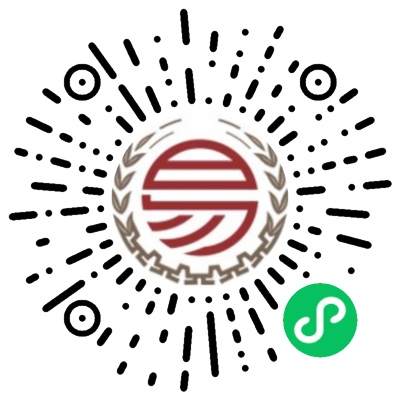
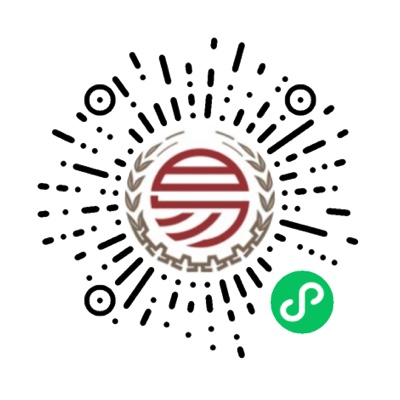
2

diff --git a/StoreIn.html b/StoreIn.html
@@ -73,15 +73,15 @@
 
     <div class="store-in-main">
         <div class="in-content">
-            <img src="./src/store-in.png">
+            <img src="./src/vendor-in.png">
             <div class="in-tel">
-                <div class="tel-content">
-                    <div>
-                        <img src="./src/store-tel.png" class="tel">
+                <div class="tel-content-vendor">
+                    <div class="ewmimgdiv">
+                        <img style="width: 190px;height: 190px;" src="./src/vendorewm.png">
                     </div>
-                    <div class="txt">
-                        <p>门店入驻电话</p>
-                        <p>400-163-1979</p>
+                    <div class="txt-vendor">
+                        <p class="txtver1">易品优选合伙人招募</p>
+                        <p class="txtver2">微信扫描小程序码</p>
                     </div>
                 </div>
             </div>
@@ -113,6 +113,7 @@
             Copyright © 2018 四川易品优选电子商务有限公司. All rights reserved. 蜀ICP备18005402号-1
         </div>
     </div>
+
     <style type="text/css">
         .page-foot {
             width: 100%;
@@ -173,6 +174,40 @@
             height: 60px;
             line-height: 60px;
             padding-bottom: 30px;
+        }
+    </style>
+    <style type="text/css">
+        .tel-content-vendor {
+            display: flex;
+            margin-left: 80px;
+            align-items: center;
+            position: relative;
+        }
+
+        .txt-vendor {
+            padding-left: 260px;
+            margin-top: 30px;
+        }
+
+        .txtver1 {
+            color: #333333;
+            font-size: 26px;
+        }
+
+        .txtver2 {
+            color: #333333;
+            font-size: 16px;
+            margin-top: 20px;
+        }
+
+        .ewmimgdiv {
+            position: absolute;
+            top: -40px;
+        }
+
+        .ewmimgvend {
+            width: 190px !important;
+            height: 190px;
         }
     </style>
 
